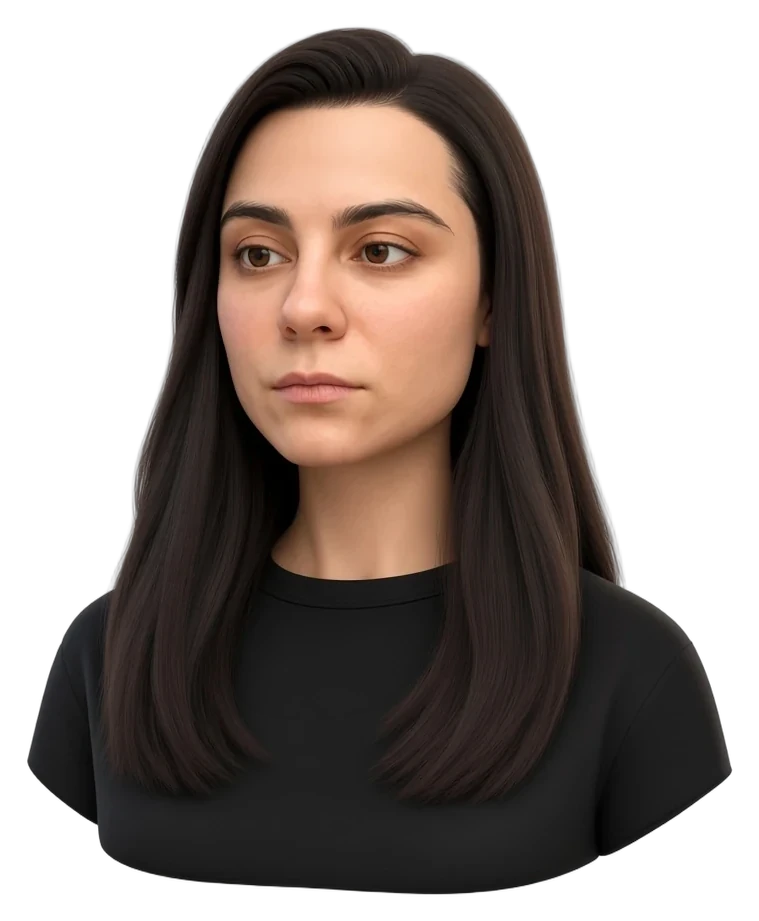
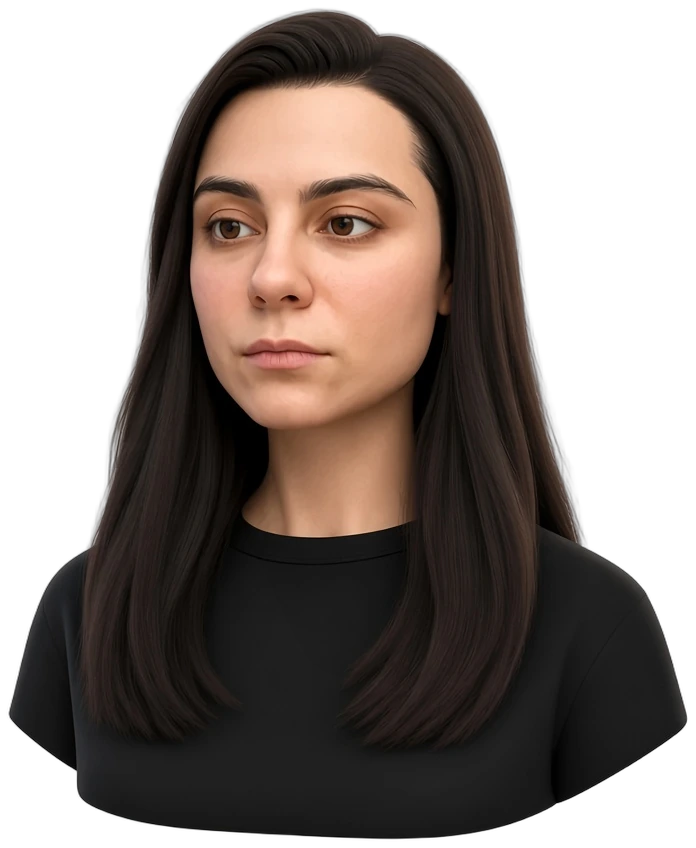
Match the CREATE DAILY poster: type first, only the bust on top
The first screen is now the reference lockup — red field, stacked CREATE / DAILY, no extra copy. The avatar sits on the letters like the koi, and the pointer still x-rays diamond metal plates.

diff --git a/src/App.css b/src/App.css
@@ -87,6 +87,8 @@ body {
   background: transparent;
   border-bottom-color: transparent;
   color: #fff;
+  opacity: 0;
+  pointer-events: none;
 }
 
 .site-bar.is-over-hero .nav-links,
@@ -197,7 +199,7 @@ body {
   min-height: 100dvh;
   height: 100dvh;
   padding: 0;
-  background: #e21820;
+  background: #e30613;
   color: #fff;
   overflow: hidden;
 }
@@ -206,67 +208,19 @@ body {
   position: absolute;
   inset: 0;
   z-index: 1;
+  display: flex;
+  flex-direction: column;
+  justify-content: center;
+  align-items: center;
   margin: 0;
   font-family: Inter, system-ui, sans-serif;
   font-weight: 800;
-  font-size: clamp(5.2rem, 18vw, 14.2rem);
-  line-height: 0.78;
-  letter-spacing: -0.06em;
+  font-size: clamp(5rem, 19.4vw, 15rem);
+  line-height: 0.82;
+  letter-spacing: -0.05em;
   text-transform: uppercase;
   color: #fff;
   pointer-events: none;
-}
-
-.hero-splash-title span {
-  position: absolute;
-  left: 50%;
-  display: block;
-  white-space: nowrap;
-  transform: translateX(-50%);
-}
-
-.hero-splash-title span:first-child {
-  top: 11vh;
-  font-size: 1.18em;
-  letter-spacing: 0.08em;
-}
-
-.hero-splash-title span:last-child {
-  top: 52vh;
-}
-
-.hero-splash-kicker,
-.hero-splash-side {
-  position: absolute;
-  z-index: 3;
-  font-size: 0.78rem;
-  font-weight: 500;
-  letter-spacing: 0.08em;
-  text-transform: lowercase;
-  color: #fff;
-}
-
-.hero-splash-kicker {
-  top: 6.2rem;
-  left: max(1.4rem, calc(50% - 38rem));
-}
-
-.hero-splash-side {
-  top: 6.2rem;
-  right: max(1.4rem, calc(50% - 38rem));
-}
-
-.hero-splash-lede {
-  position: absolute;
-  z-index: 3;
-  left: 50%;
-  bottom: 1.6rem;
-  width: min(34rem, calc(100% - 2.4rem));
-  transform: translateX(-50%);
-  font-size: 0.92rem;
-  line-height: 1.45;
-  color: rgba(255, 255, 255, 0.82);
-  text-align: center;
 }
 
 .eyebrow {
@@ -652,33 +606,7 @@ section {
   }
 
   .hero-splash-title {
-    font-size: clamp(4.4rem, 28vw, 8rem);
-  }
-
-  .hero-splash-title span:first-child {
-    top: 5.6rem;
-    letter-spacing: 0.14em;
-  }
-
-  .hero-splash-title span:last-child {
-    top: auto;
-    bottom: 5.2rem;
-  }
-
-  .hero-splash-kicker,
-  .hero-splash-side {
-    top: 5.1rem;
-    left: 1.2rem;
-    right: auto;
-  }
-
-  .hero-splash-side {
-    left: auto;
-    right: 1.2rem;
-  }
-
-  .hero-splash-lede {
-    font-size: 0.84rem;
+    font-size: clamp(3.6rem, 22vw, 7.2rem);
   }
 }
 

diff --git a/src/HeroAvatar.css b/src/HeroAvatar.css
@@ -1,27 +1,24 @@
 .hero-avatar-stage--splash {
   --mx: 50%;
-  --my: 40%;
+  --my: 42%;
   position: absolute;
   left: 50%;
   top: 50%;
   z-index: 2;
-  width: calc(100dvh * 759 / 921);
-  height: 100dvh;
-  transform: translate(-50%, -50%);
+  width: min(52vw, 56vh);
+  transform: translate(-50%, -47%);
   cursor: none;
 }
 
 .hero-avatar-rig {
   position: relative;
   width: 100%;
-  height: 100%;
 }
 
 .hero-avatar-photo {
   display: block;
   width: 100%;
-  height: 100%;
-  object-fit: contain;
+  height: auto;
   pointer-events: none;
 }
 
@@ -32,12 +29,12 @@
   transition: opacity 0.16s ease;
   pointer-events: none;
   -webkit-mask-image: radial-gradient(
-    circle clamp(8.5rem, 18vw, 14rem) at var(--mx) var(--my),
+    circle clamp(6.5rem, 14vw, 11rem) at var(--mx) var(--my),
     #000 0 46%,
     transparent 78%
   );
   mask-image: radial-gradient(
-    circle clamp(8.5rem, 18vw, 14rem) at var(--mx) var(--my),
+    circle clamp(6.5rem, 14vw, 11rem) at var(--mx) var(--my),
     #000 0 46%,
     transparent 78%
   );
@@ -59,6 +56,7 @@
 
 @media (max-width: 860px) {
   .hero-avatar-stage--splash {
+    width: min(72vw, 42vh);
     cursor: auto;
   }
 

diff --git a/src/pages/Home.tsx b/src/pages/Home.tsx
@@ -73,17 +73,11 @@ function Home() {
   return (
     <>
       <section id="top" className="hero-splash">
-        <p className="hero-splash-kicker">UX/UI · финтех</p>
         <h1 className="hero-splash-title">
-          <span>Всё</span>
-          <span>логично</span>
+          <span>Create</span>
+          <span>Daily</span>
         </h1>
-        <p className="hero-splash-side">продуктовый дизайнер</p>
         <HeroAvatar />
-        <p className="hero-splash-lede">
-          Интерфейсы, в которых всё логично. Слушаю пользователей, слышу команду
-          и уже 5 лет собираю продукты, которым удобно доверять.
-        </p>
       </section>
 
       <section id="work" className="work">
